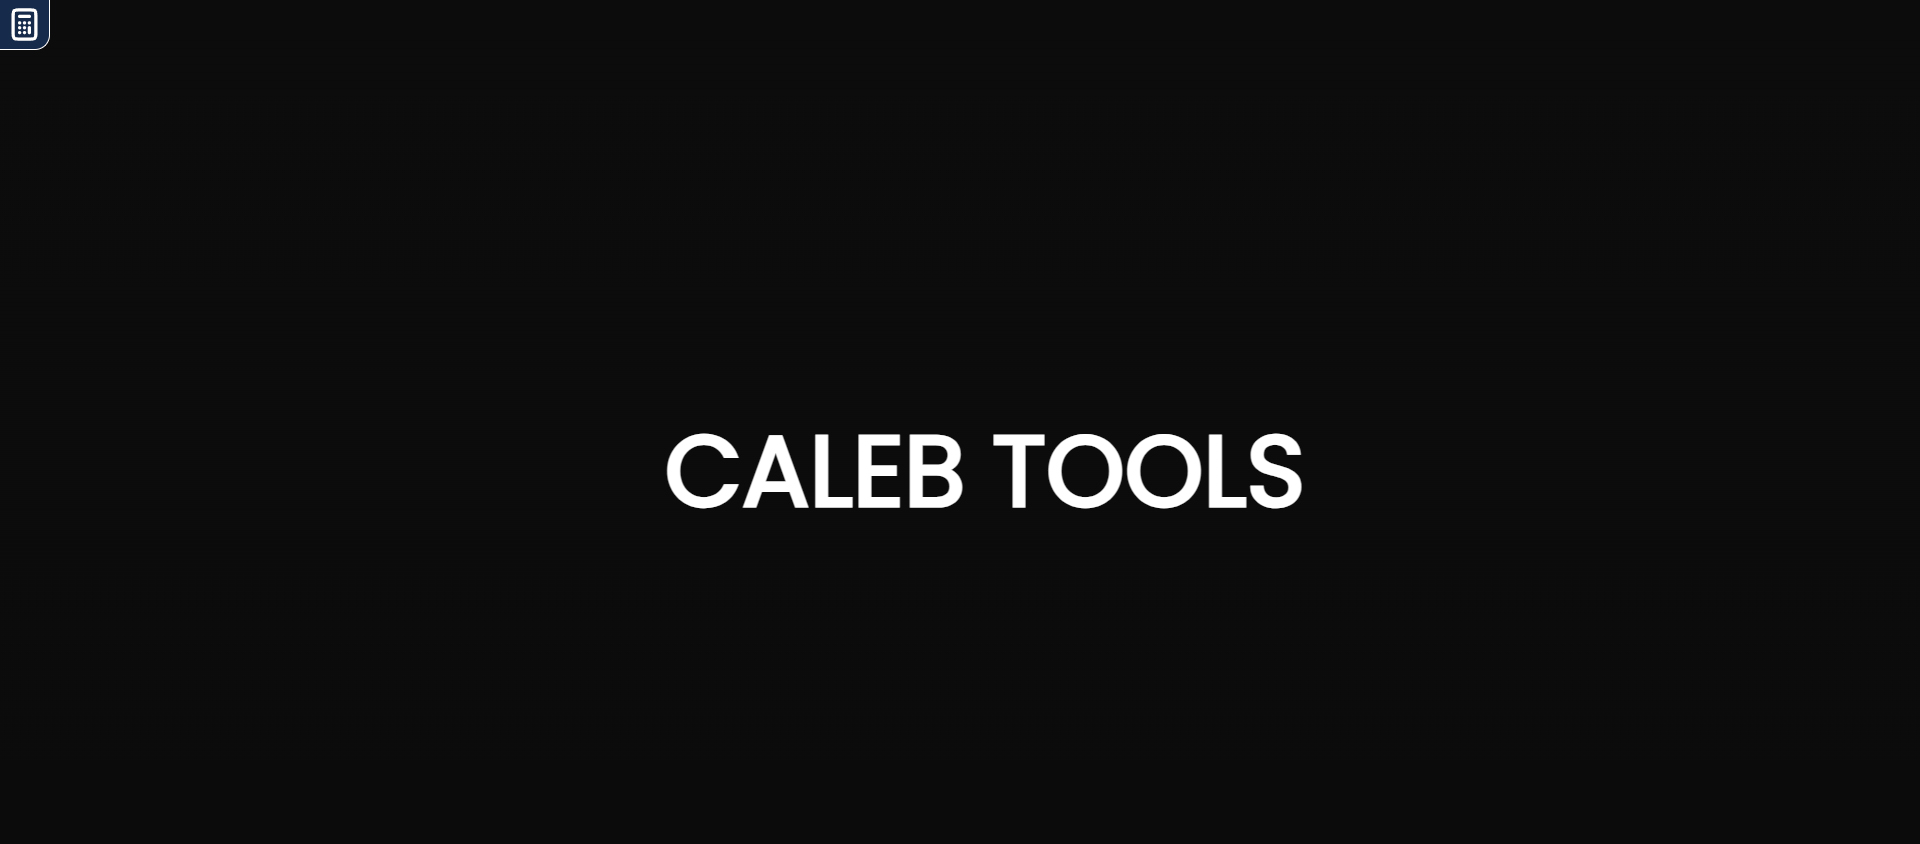
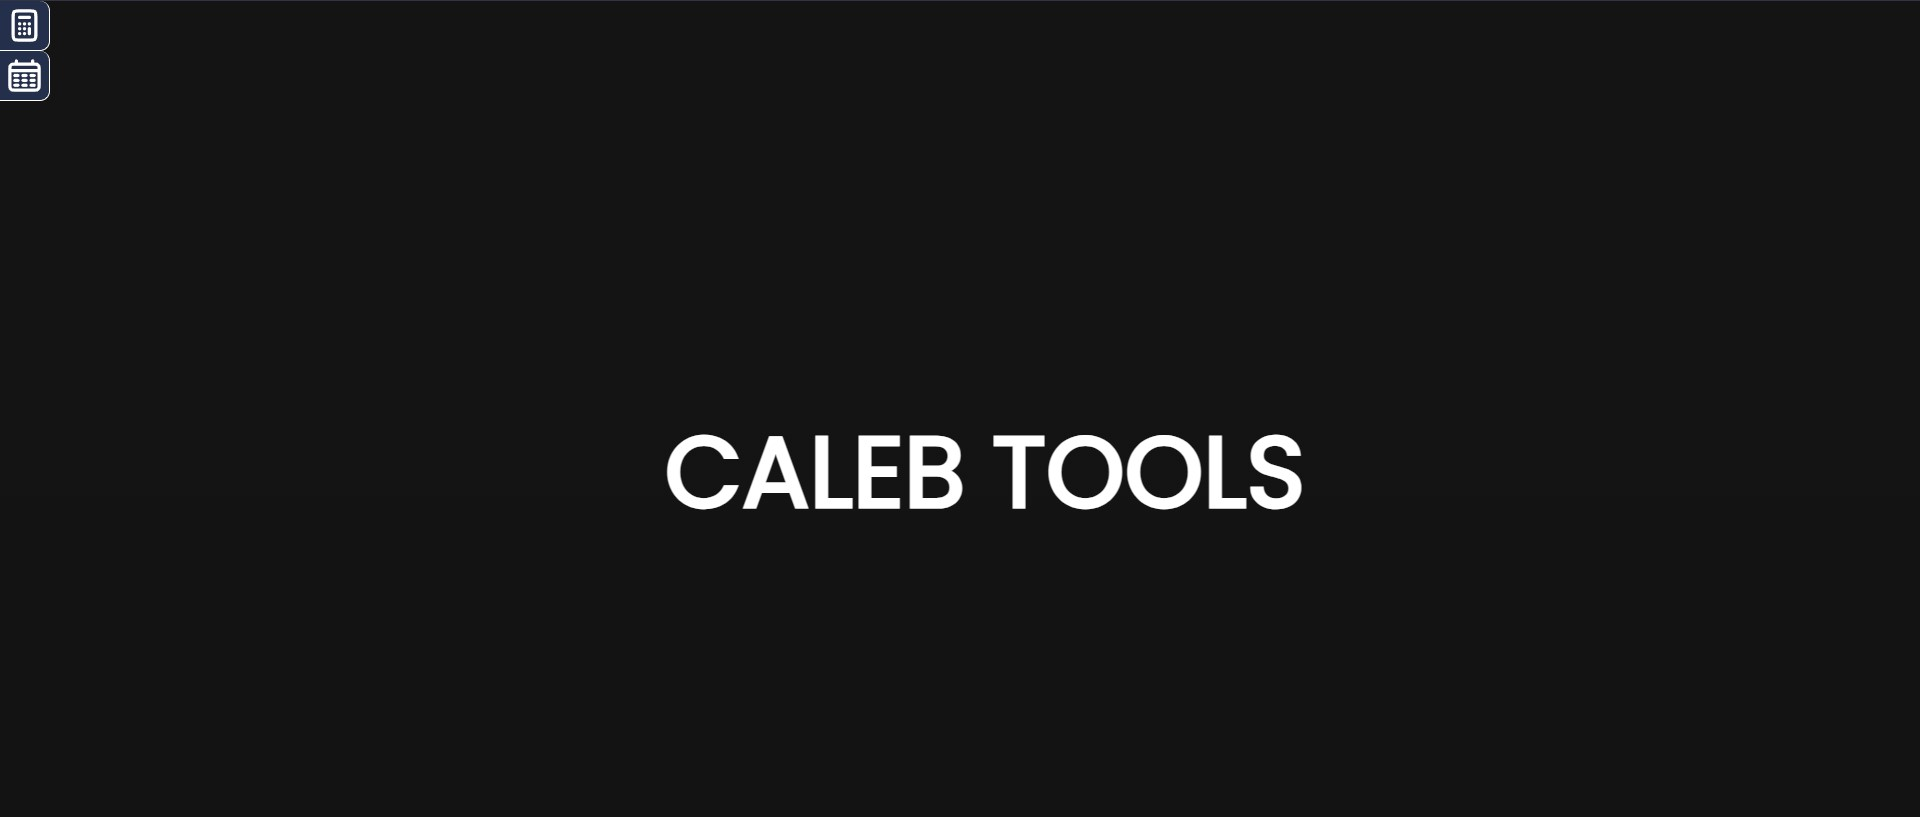
update README

Changed region(s): [[0.3438, 0.4896, 0.6875, 0.6426], [0.0, 0.0, 0.0312, 0.1224]]

diff --git a/script/calendar_script.js b/script/calendar_script.js
@@ -239,6 +239,7 @@ function getData(){
 
 // IMPRENSSÃO DO CALENDARIO EM TELA
 function printCalendar(){
+    // TRATANDO DOS DIAS DO MÊS ANTERIOR
     if (daysOfLastMonth[0]){       
             for(let i = 0; i < daysOfLastMonth.length; i++){
                 const createDate = document.createElement("li");
@@ -282,6 +283,7 @@ function printCalendar(){
             }
     }
 
+    // TRATANDO DOS DIAS DO MÊS ATUAL
     for(let i = 0; i < daysOfMonthSelected.length; i++){
         if(daysOfMonthSelected[i].weekDay == 0){
             sundayArray[i] = daysOfMonthSelected[i].day
@@ -387,6 +389,7 @@ function printCalendar(){
 
       fullprint = true;
 
+      // TRATANDO DOS DIAS DO MÊS SEGUINTE
       if (daysOfNextMonth[0] && fullprint == true){     
         for(let i = 0; i < daysOfNextMonth.length; i++){
             const createDate = document.createElement("li");

diff --git a/README.md b/README.md
@@ -6,7 +6,7 @@
 
 **<h2>SOBRE</h2>**
 
-Projeto construído com intuito de estudo pratico de HTLM/CSS/JS.
+Projeto construído com intuito de estudo prático de HTLM/CSS/JS.
 
 <a name="sumario"></a>
 |**<h4>SUMARIO</h4>**|
@@ -40,6 +40,7 @@ A aplicação possui um menu lateral, onde cada botão representa uma ferramenta
 > **_FERRAMENTAS_**
 
 - _[CALCULADORA](#calculadora)_
+- _[CALENDÁRIO](#calendario)_
 
 [Topo](#sumario)
 _________________________________
@@ -56,21 +57,51 @@ _________________________________
 
 _* Tech: JavaScript;_
 
-_* Utilidade: Realizar contas básicas de matematica;_
+_* Utilidade: Realizar contas básicas de matemática;_
 
-_Detalhes: A calculadora realiza operações de adição(+), subtração(-), multiplicação (*), divisão(/) e calcula porcentagem de um valor sobre o outro, é possivel negativar os numeros e definir casas decimais, limpeza dos dados e cancelamento de operação._
+_Detalhes: A calculadora realiza operações de adição(+), subtração(-), multiplicação (*), divisão(/) e calcula porcentagem de um valor sobre o outro, é possível negativar os números e definir casas decimais, limpeza dos dados e cancelamento de operação._
 
-_Basicamente a calculadora trabalha com quatro variaveis sendo o primeiro numero (n1) a operação matematica desejada (operação) o segundo numero (n2) e o numero resultado (result)._
+_Basicamente a calculadora trabalha com quatro variáveis, sendo o primeiro número (n1) a operação matemática desejada (operação) o segundo número (n2) e o número resultado (result)._
 
-_No fluxo, a aplicação solicita o primeiro numero, o mesmo para de concatenar o valores inseridos após o usuario clicar no simbolo operador desejado, feito isso, a aplicação solicita o segundo numero e da mesma maneira, para de concaternar os valor inseridos até que o botão de "igual" será clicado, apresentando o valor final._
+_No fluxo, a aplicação solicita o primeiro número, o mesmo para de concatenar os valores inseridos após o usuário clicar no símbolo operador desejado, feito isso, a aplicação solicita o segundo número e da mesma maneira, para de concatenar os valores inseridos até que o botão de "igual" será clicado, apresentando o valor final._
 
-_É possivel continuar a operação apartir do resultado da ultima equação, poís após a operação realizada o resultado é atribuido ao primeiro valor. As operações podem ser realizadas sem que o usuario precise ficar clicando no botão de "igual", após inserir o primeiro valor, operação desejada e segundo valor, caso ele clique em um outro operador, a primeira operação será realizada, resultado atribuido ao primeiro numero e a operação desejada irá continua sendo executada a partir dali._
+_É possível continuar a operação a partir do resultado da última equação, pois, após a operação realizada o resultado é atribuído ao primeiro valor. As operações podem ser realizadas sem que o usuário precise ficar clicando no botão de "igual", após inserir o primeiro valor, operação desejada e segundo valor, caso ele clique em um outro operador, a primeira operação será realizada, resultado atribuído ao primeiro número e a operação desejada irá continuar sendo executada a partir dali._
 
-_Para no caso do usuario não informar os valores, sempre que clicar num operador ou no botão de resultado, os numeros receberam o valor 0.(Ex: Usuario clicar em (+) e depois em igual (=), a calculadora irar realizar a operação 0 + 0)_ 
+_Para no caso do usuário não informar os valores, sempre que clicar num operador ou no botão de resultado, os números receberam o valor 0.(Ex: Usuário clicar em (+) e depois em igual (=), a calculadora irar realizar a operação 0 + 0)._ 
 
-_Toda os valores da operação, são inseridos como STRING (numeros, operadores) e depois que a toda operação é definida (N1 (operador) N2) eles são validados e então convertidos para realização da operação matematica e depois o resultado é convertido novamente para STRING. Para criar e manipular dos numeros (negativo, decimal, primeiro numero está definido, qual operador será utilizado, etc), usamos variaveis booleano, que são validadas por funções._
+_Todos os valores da operação, são inseridos como STRING (números, operadores) e depois que a toda operação é definida (N1 (operador) N2) eles são validados e então convertidos para realização da operação matemática e depois o resultado é convertido novamente para STRING. Para criar e manipular os números (negativo, decimal, primeiro numero está definido, qual operador será utilizado, etc), usamos variáveis booleano, que são validadas por funções._
 
-_* Construção e Estilização: Aplicação construida apenas com caracteres (sem imagens) e estilizada com CSS bruto_
+_* Construção e Estilização: Aplicação construída apenas com caracteres (sem imagens) e estilizada com CSS bruto._
+
+<a id="calendario"></a>
+
+[ _CALENDARIO_ ]
+
+![preview](/.github/preview_calendario.jpg)
+
+_* Tech: JavaScript;_
+
+_* Utilidade: Calendário interativo para consulta de datas;_
+
+_Detalhes: O calendário apresenta a hora atual(atualiza conforme os segundos passam), a data de hoje por extenso(ex: domingo, 1 de janeiro de 2023) e logo abaixo o calendário do mês atual, informando como uma espécie de título o mês e o ano atual, abaixo uma legenda para os dias da semana(Ex: DOM, SEG) e os dias do mês conforme cada dia da semana e abaixo, botões que levam para uma espécie de seleção de mês e ano, tornando a navegação mais dinâmica e rápida._
+
+_Utilizando a instância Date, crio variável para o mês atual(mês/ano) e o último dia do mês atual. Com o último dia do mês, utilizo uma estrutura de repetição onde é atribuído dentro de um array um objeto com o dia, dia da semana e mês. Para os meses que não iniciam no domingo(primeiro dia da semana), usamos uma nova estrutura de repetição, onde colhemos os dias do mês passado até chegar no domingo, o intuito é não deixar espaços em branco no calendário, o mesmo processo é feito no final do calendário, onde preenchemos com dias do mês seguinte até o dia sábado._
+
+_Após colher as informações, inicia uma função que irá mostrar os dados na tela. É criado um Array com os nomes dos meses e atrelados cada uma com seu valor correspondente na instância Date. Imprime nome do mês e ano atual como titulo, depois, utilizando estrutura de repetição, retiro os dados do Array preenchidos anteriormente e atribuímos cada dia em um novo Array referente a semana que ele pertence, iniciando sempre com os dias do mês anterior, em seguida com os dias do mês atual e depois com os dias do mês seguinte._
+
+_Após imprimir o calendário, inicia a função de seleção de dia, onde é possível clicar no dia desejado e o mesmo fica selecionado em tela. Tal função foi implementada para futuras utilidades._
+
+_Para navegar de mês em mês, foram implementados nas laterais do título do mês, botões com setas, cada um indicando para o lado que está, onde o da esquerda vai para o mês anterior e o da direita, para o próximo mês. Cada um executa uma função onde iniciamos uma função de limpeza de tela, variáveis e validadores, reduzimos ou incrementamos um do valor do mês, dependendo do botão clicado e logo é executado a função de colher dados e de impressão em tela, assim gerando o calendário de outro mês._
+
+_Para a apresentação da hora, existe uma função com uma nova instância Date, onde é atrelada a variáveis de hora, minuto e segundo, em seguida é realizado o incremento do zero a esquerda, para números menores que 10 e assim o valor é impresso em tela. A função está configurada para executar de 1 em 1 segundo, assim funcionando como um relógio. Para a data em extenso utilizamos o mesmo do título do calendário utilizando também outro Array com o nome dos dias da semana._
+
+_BOTÃO DEFINIR MÊS: Inicialmente, ao clicar, ele remove a visibilidade de todos os itens do calendário, e ativa a visibilidade de uma nova janela, onde é apresentando como titulo o ano selecionado(no caso inicialmente, o ano atual) e em botões as iniciais de cada mês, onde o mês selecionado(no caso inicialmente, o mês atual) vai estar com uma cor diferente indicando estar selecionado. Estes botões com os meses são pré criados no HTML e cada um possui uma função de click, passando o valor correspondente ao mês, ao clicar no mesmo, ele executa a função de limpeza, subtrai o valor do mês atual pelo mês escolhido(Vice-versa, depende qual possui maior valor) e esse valor é atrelado a variável com a instância Date, em seguida, executa função para pegar os dados e depois de impressão de dados, removendo a visibilidade deste menu de meses e reativando a visibilidade dos itens de calendário, assim apresentando o mês selecionado. É possível alterar o ano, clicando no título com o ano._
+
+_BOTÃO DEFINIR ANO: Funciona como o menu de opções de meses, mas este apresenta anos. Neste menu são apresentados os anos em botões, em destaque, sempre em um período de 10 anos(EX: 2020 a 2029, 2000 a 2009), apresentado também, antes do período destaque, o último ano da última década e após o período destaque, o primeiro ano da próxima década. Assim como no menu de meses, executa função de limpeza, atrela o valor desejado a instância DATE, colhe os dados, imprime, desabilita visualização do menu, reabilita do calendário. No título deste menu, é apresentado o período destaque, e através das setas podemos navegar pelas décadas._
+
+_SOBRE LIMITE DO CALENDÁRIO: O calendário, regredindo os meses, funciona até janeiro de 1970 conforme informado na documentação da instância Date. Ao tentar passar o limite, um alerta em tela é apresentado, informando sobre o limite._
+
+_* Construção e Estilização: Arquivo SVG para botões (seta) e estilização com CSS bruto._
 
 [Ferramentas](#ferramentas) - [Topo](#sumario)
 
@@ -90,11 +121,11 @@ _* Construção e Estilização: Aplicação construida apenas com caracteres (s
 
 ---
 
-<!-- **<h2>PROJETO</h2>**
+**<h2>PROJETO</h2>**
 
-[Clique aqui para acessar o projeto;](https://nathancaleb.github.io/nlw-setup/)
+[Clique aqui para acessar o projeto;](https://nathancaleb.github.io/caleb_tools/)
 
---- -->
+---
 
 <a id="contato"></a>
 
